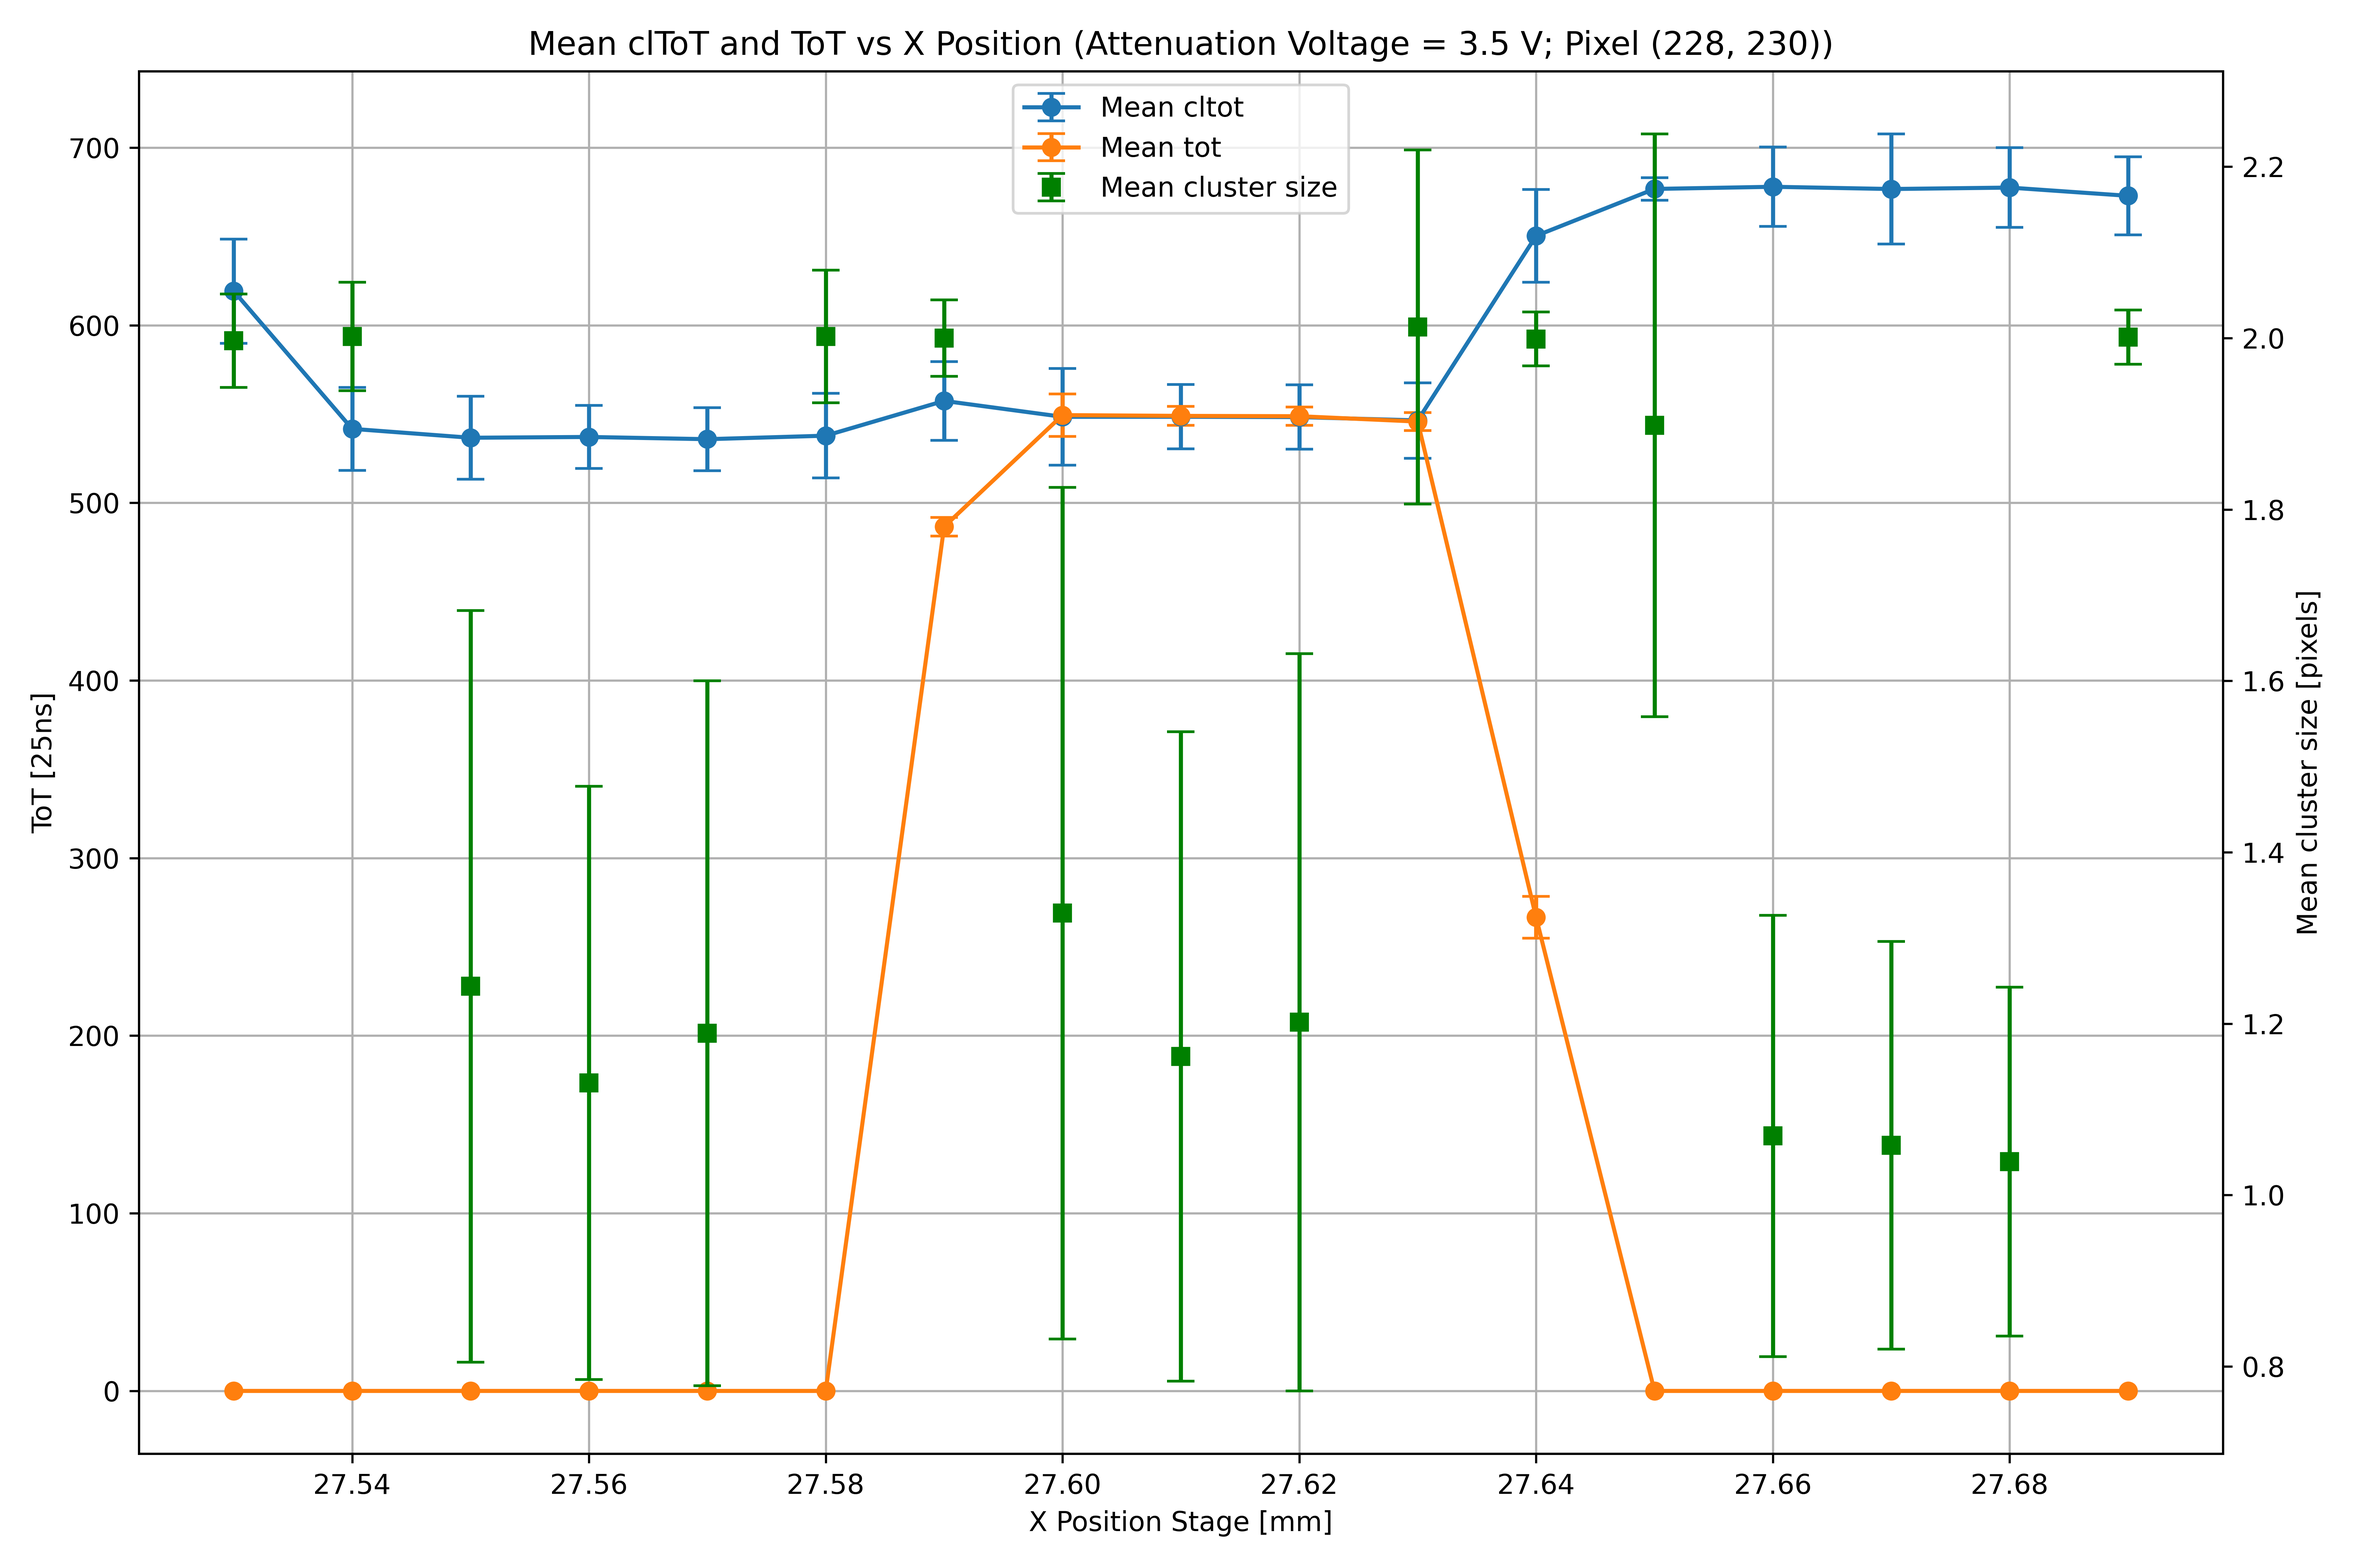
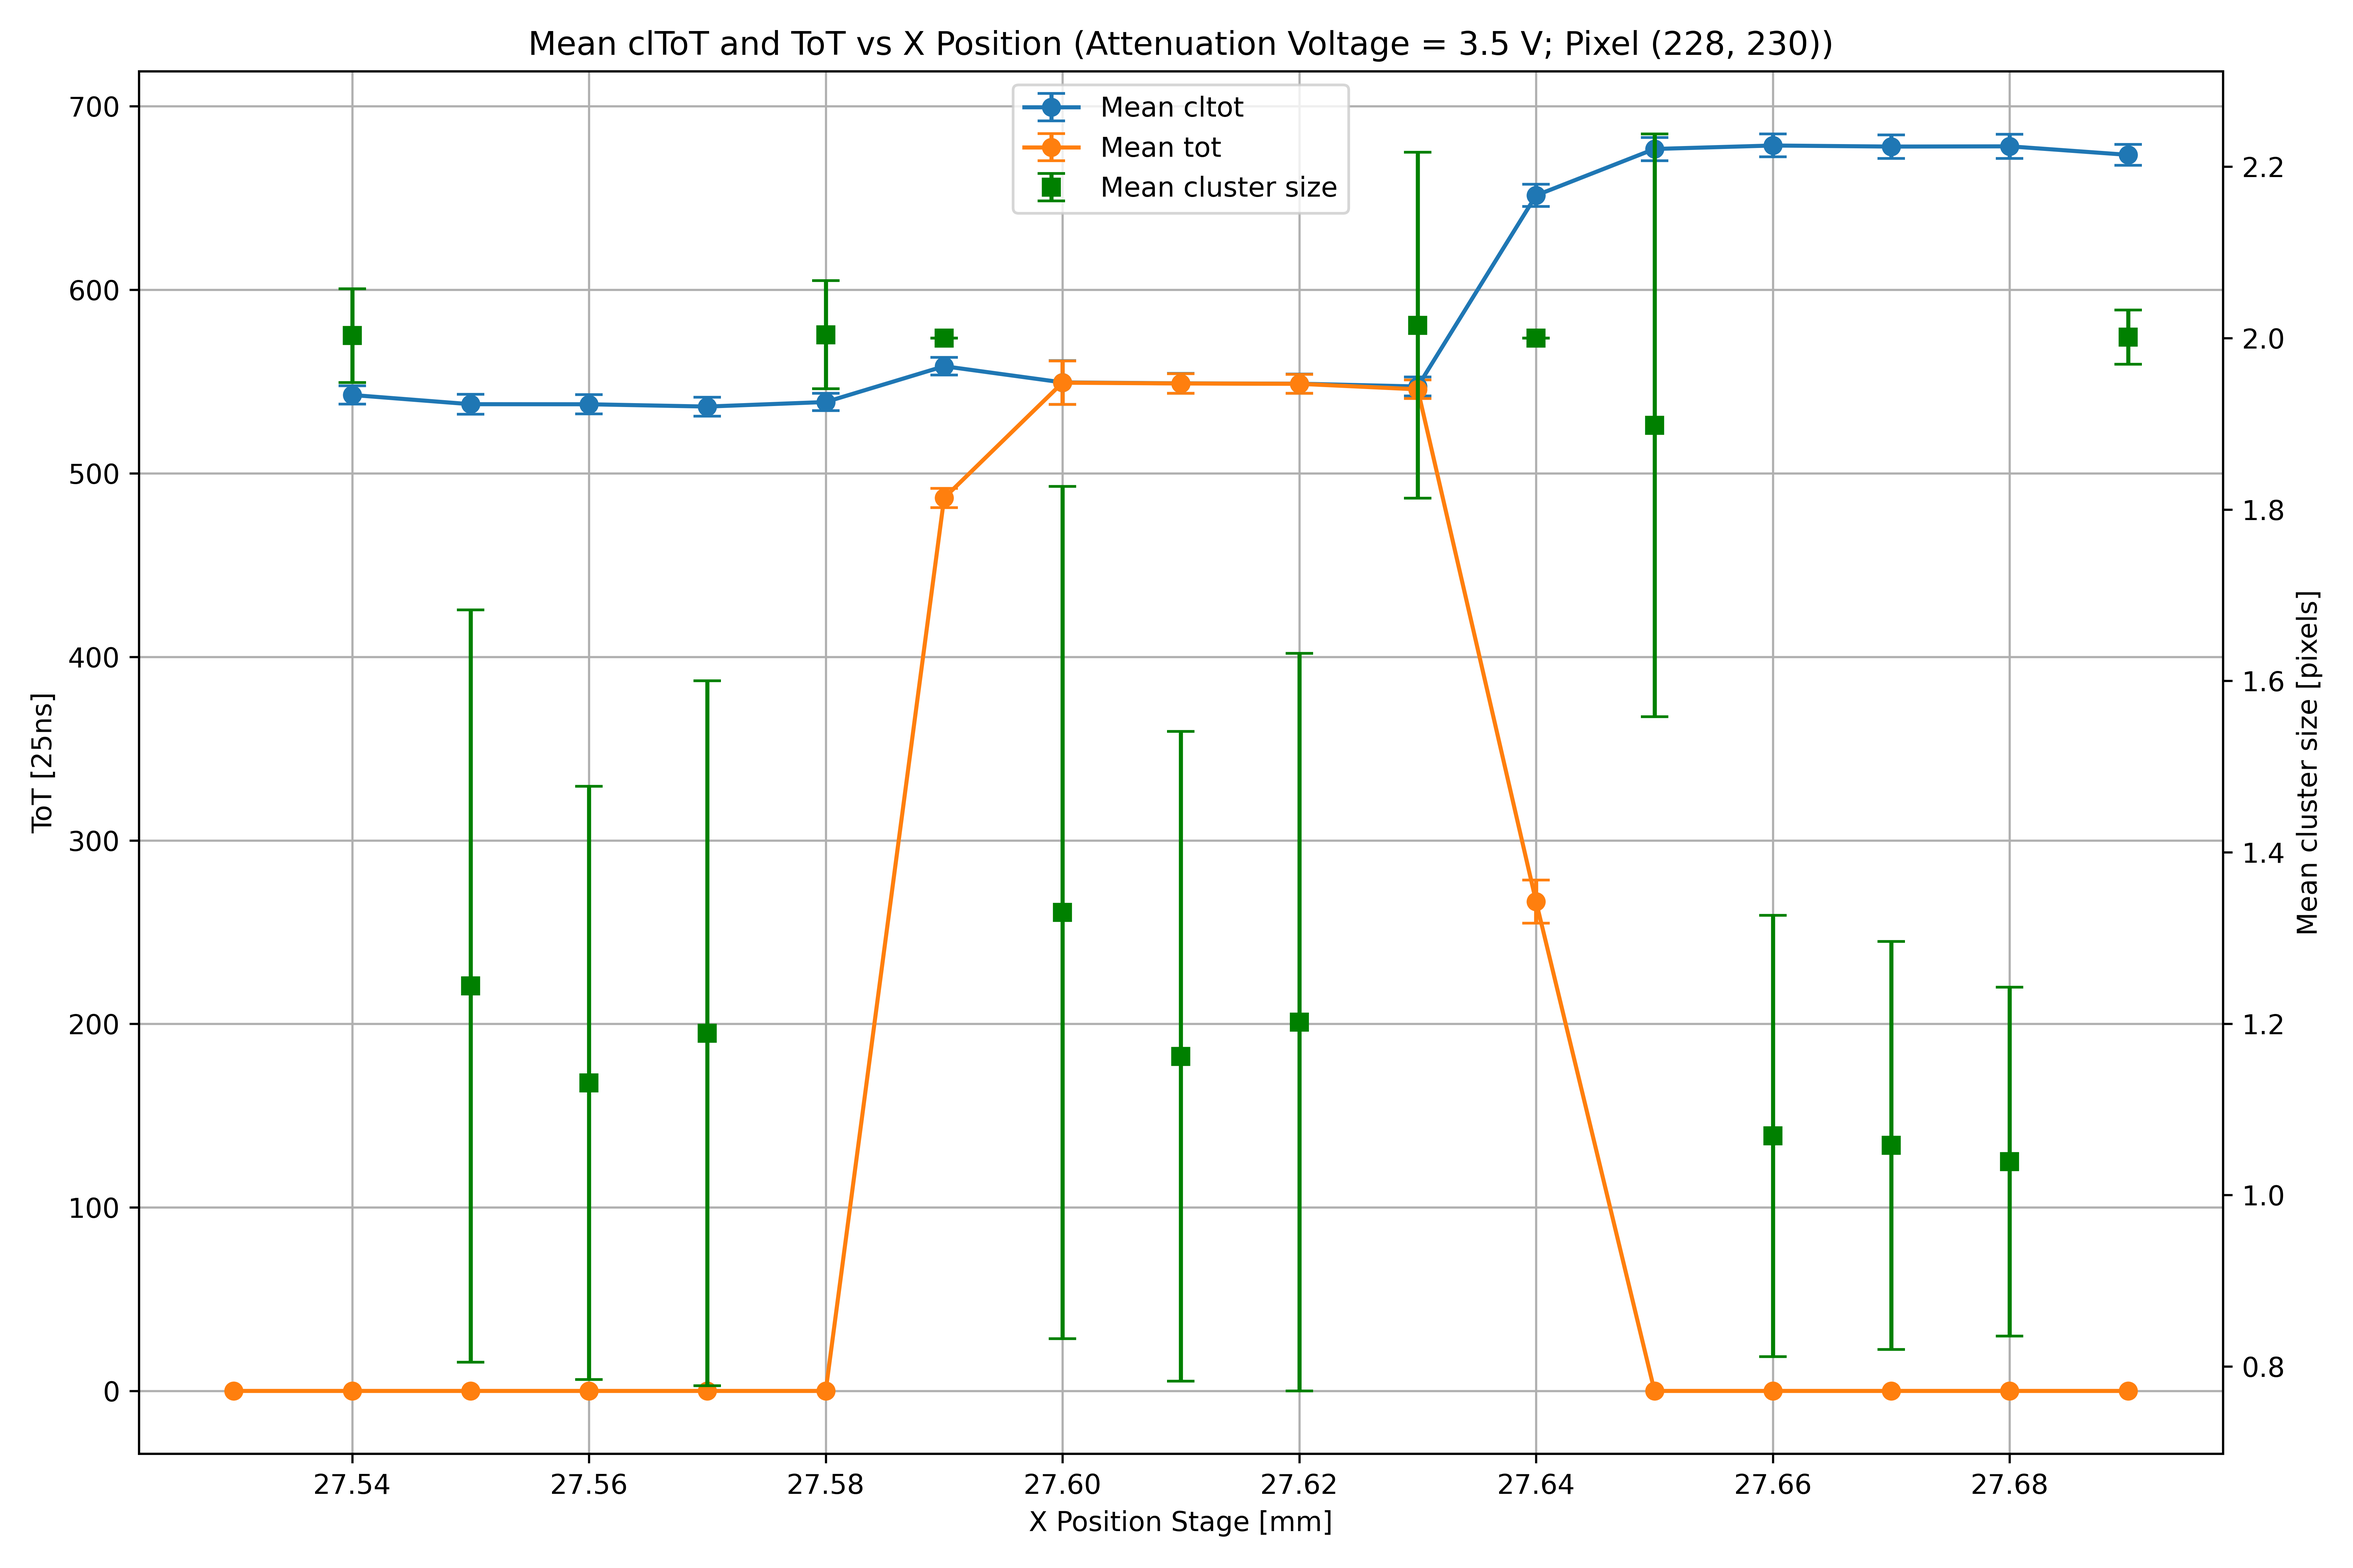
Enhance pixel filtering logic in process_folder function for improved data accuracy

diff --git a/ProcessFocus.py b/ProcessFocus.py
@@ -55,13 +55,28 @@ def process_folder(folder_path: str, r: str):
     )
     df_exp = FilterAndUnwrap(df_data)
     df_filtered = df_exp[(df_exp["row"] == ROW) & (df_exp["col"] == COL)].copy()
-    # Compute average cltot per event
-    df_cl_under_limit = df_filtered[df_filtered["cltot"] < LIMIT]
+
+    if r == "x":
+        # Include the target pixel and its immediate neighbors in the row direction
+        mask = (
+            df_exp["row"].isin([ROW, ROW + 1, ROW - 1])
+        ) & (df_exp["col"] == COL)
+        df_filtered_cl_cs = df_exp[mask].copy()
+    elif r == "y":
+        # Include the target pixel and its immediate neighbors in the column direction
+        mask = (
+            df_exp["col"].isin([COL, COL + 1, COL - 1])
+        ) & (df_exp["row"] == ROW)
+        df_filtered_cl_cs = df_exp[mask].copy()
+    else:
+        df_filtered_cl_cs = df_filtered.copy()
+
+    df_cl_under_limit = df_filtered_cl_cs[df_filtered_cl_cs["cltot"] < LIMIT]
     mean_cl = df_cl_under_limit["cltot"].mean()
     std_cl = df_cl_under_limit["cltot"].std()
 
     # Compute average cluster size per event
-    sizes = df_filtered["nhits"]
+    sizes = df_filtered_cl_cs["nhits"]
     std_cs = sizes.std()
     mean_cs = sizes.mean()
 
@@ -81,6 +96,7 @@ def process_folder(folder_path: str, r: str):
         max_tot = df_mean["tot"].iloc[0]
     else:
         max_tot = 0
+
     ref_tot_series = df_filtered["tot"]
     std_tot = ref_tot_series.std()
     return height_num2, mean_cl, std_cl, max_tot, std_tot, mean_cs, std_cs
